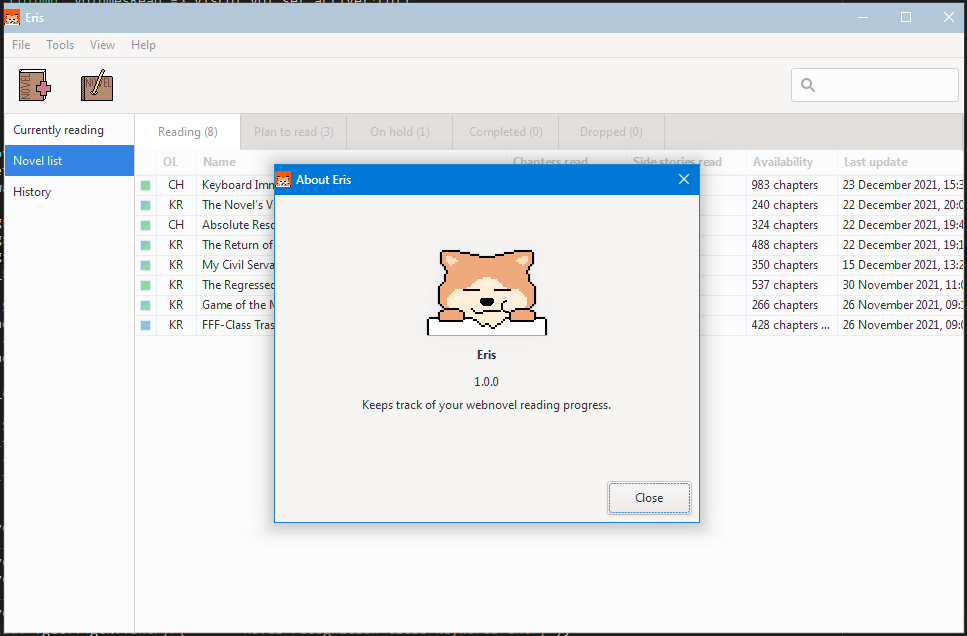
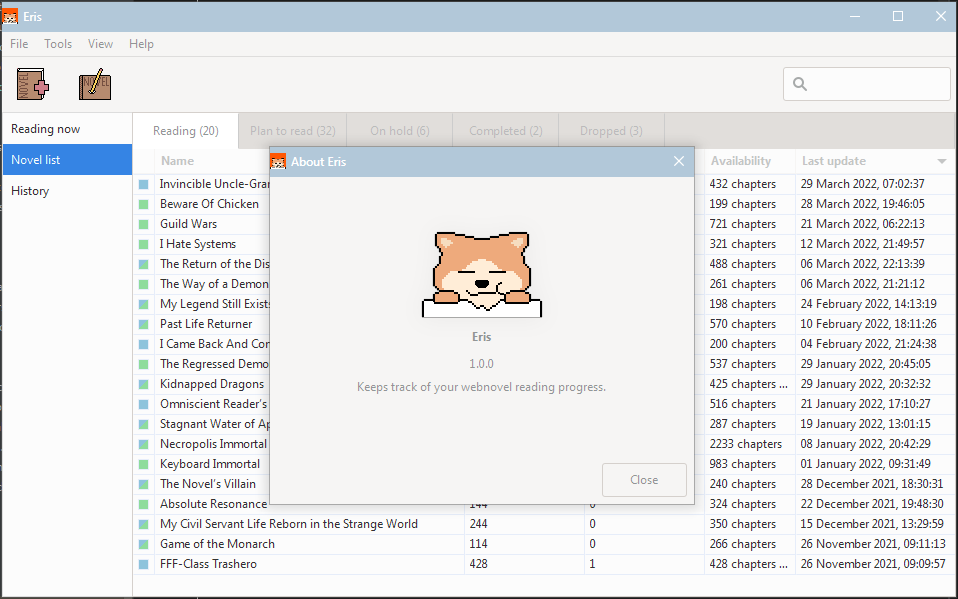
Fixed webnovel parser not finding total chapters all the time, also added year parsing.

Changed region(s): [[0.0, 0.0, 0.999, 1.0], [0.3633, 0.3907, 0.6357, 0.6611]]

diff --git a/src/appop/parsers/webnovel.rs b/src/appop/parsers/webnovel.rs
@@ -1,7 +1,8 @@
 use crate::app::novel::{Novel, NovelContentAmount, NovelSettings, NovelStatus, NovelType};
 use crate::appop::parsers::{cover_image_file, ParseNovel};
 use crate::utils::capitalize_str;
-use chrono::Local;
+use chrono::{Datelike, Local, NaiveDateTime};
+use regex::Regex;
 use select::document::Document;
 use select::predicate::{Attr, Class, Name, Predicate};
 use std::str::FromStr;
@@ -42,8 +43,6 @@ impl ParseNovel for Webnovel {
         } else {
             NovelStatus::Ongoing
         };
-
-        println!("DESC: {:?}", self.parse_description());
 
         let novel = Novel {
             id: novel_id,
@@ -191,23 +190,46 @@ impl ParseNovel for Webnovel {
     }
 
     fn parse_chapters(&self, _strings: &[&str]) -> i32 {
-        self.document
-            .select(
-                Class("det-hd-detail")
-                    .descendant(Name("strong"))
-                    .descendant(Name("span")),
-            )
+        let strings = self
+            .document
+            .select(Class("det-hd-detail"))
             .next()
             .unwrap()
             .text()
-            .chars()
-            .filter(|c| c.is_digit(10))
-            .collect::<String>()
-            .parse::<i32>()
-            .unwrap_or(0)
+            .split(' ')
+            .map(String::from)
+            .filter(|s| !s.is_empty())
+            .collect::<Vec<String>>();
+
+        // Check if the `Vec` of `String`s contains "Chapters"
+        // If then assume the previous item has the amount of chapters
+        if strings.contains(&"Chapters".to_string()) {
+            return strings
+                .get(strings.iter().position(|s| s == "Chapters").unwrap() - 1)
+                .unwrap()
+                .parse::<i32>()
+                .unwrap();
+        }
+
+        0
     }
 
     fn parse_year(&self) -> i32 {
+        let head_text = self.document.select(Name("head")).next().unwrap().text();
+        let re = Regex::new(r#"datePublished.*"(.*?)Z"#).unwrap();
+        let re_captures = re.captures(&head_text);
+        if let Some(captures) = re_captures {
+            let dt_str = captures.get(1).unwrap().as_str();
+            match NaiveDateTime::parse_from_str(dt_str, "%Y-%m-%dT%H:%M:%S%.3f") {
+                Ok(dt) => {
+                    return dt.year();
+                }
+                Err(e) => {
+                    error!("{}", e);
+                }
+            }
+        }
+
         0
     }
 }

diff --git a/src/appop/novel.rs b/src/appop/novel.rs
@@ -963,9 +963,9 @@ impl AppOp {
 
         // Change the list status to `Completed` if all the chapters have been read.
         // Should never work for `OnGoing` novels.
-        let is_completed = volume_num >= novel.content.volumes
-            && new_chapter_read_num >= novel.content.chapters
-            && side_story_num >= novel.content.side_stories
+        let is_completed = (volume_num >= novel.content.volumes)
+            && (new_chapter_read_num >= novel.content.chapters && novel.content.chapters > 0.0)
+            && (side_story_num >= novel.content.side_stories)
             && can_complete;
 
         // Edit chapter read count

diff --git a/src/main.rs b/src/main.rs
@@ -102,7 +102,7 @@ fn generate_dirs() {
         match fs::create_dir_all(&data_dir(DATA_IMAGE_DIR)) {
             Ok(_) => {}
             Err(e) => {
-                println!("{}", e);
+                error!("{}", e);
                 panic!(
                     "Could not create directory `{}`",
                     &data_dir(DATA_IMAGE_DIR).to_str().unwrap()
